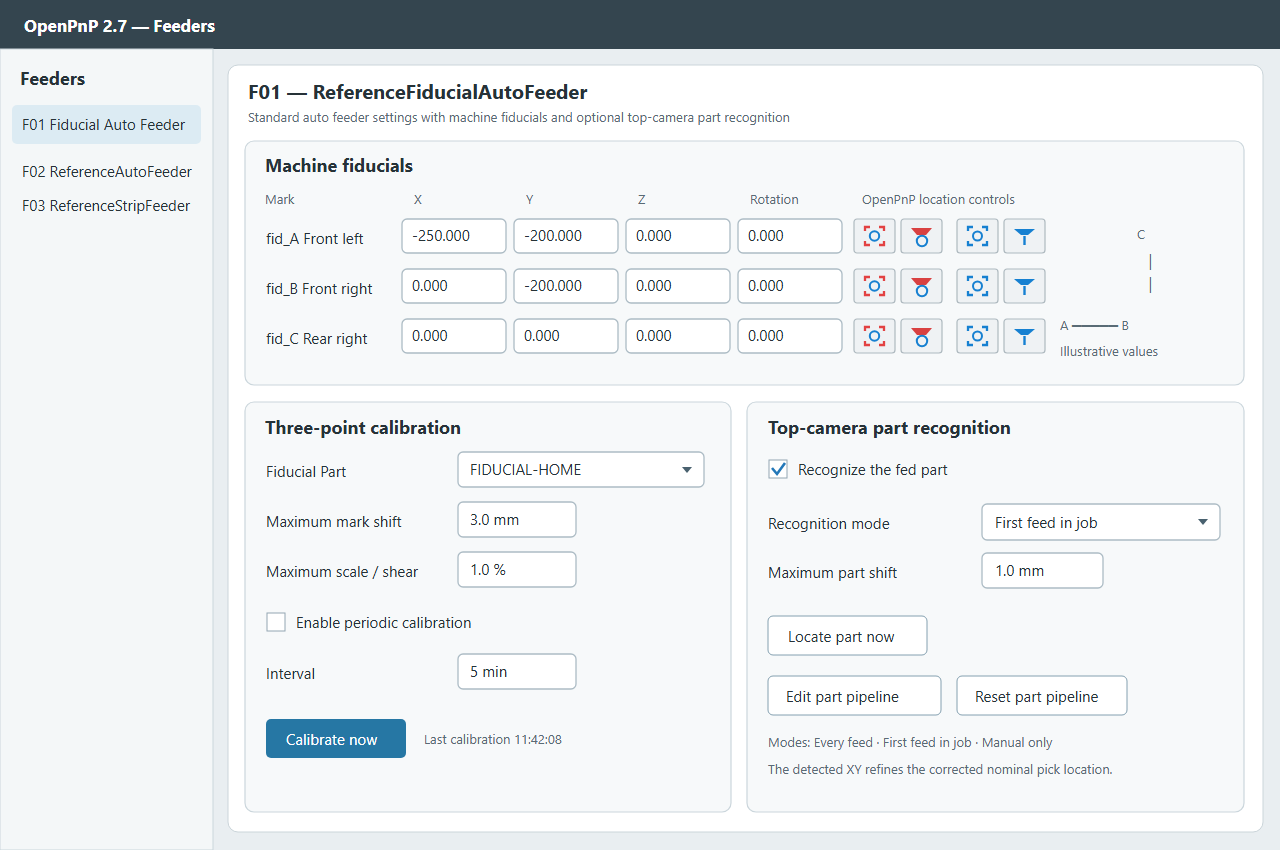
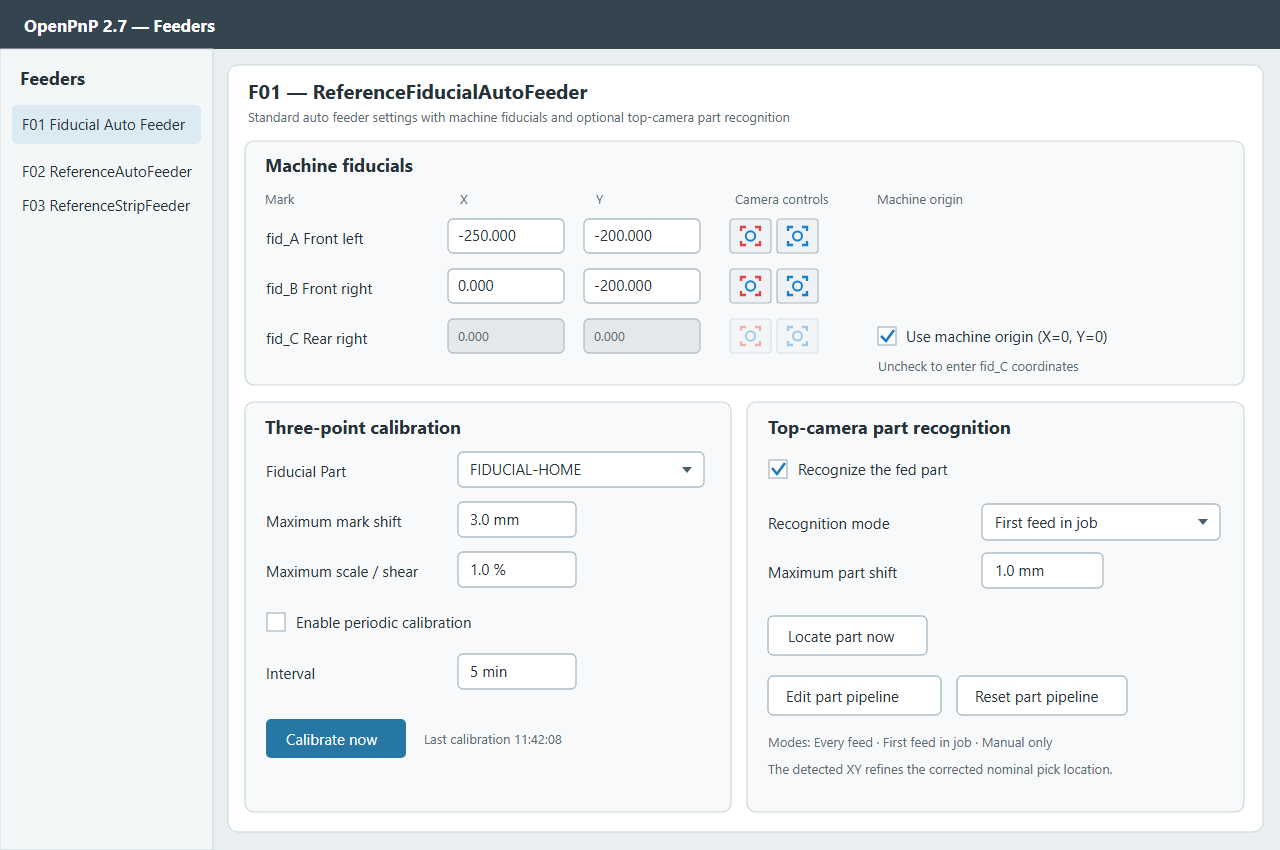
Use XY-only fiducials with optional machine origin for fid_C

Changed region(s): [[0.3125, 0.2141, 0.9062, 0.4588]]

diff --git a/overlay/src/main/java/org/openpnp/machine/reference/feeder/wizards/ReferenceFiducialAutoFeederConfigurationWizard.java b/overlay/src/main/java/org/openpnp/machine/reference/feeder/wizards/ReferenceFiducialAutoFeederConfigurationWizard.java
@@ -5,6 +5,7 @@
 package org.openpnp.machine.reference.feeder.wizards;
 
 import java.awt.Component;
+import java.awt.CardLayout;
 import java.awt.GridBagConstraints;
 import java.awt.GridBagLayout;
 import java.awt.GridLayout;
@@ -35,7 +36,10 @@ import org.openpnp.gui.support.PartsComboBoxModel;
 import org.openpnp.machine.reference.feeder.ReferenceFiducialAutoFeeder;
 import org.openpnp.machine.reference.feeder.ReferenceFiducialAutoFeeder.PartVisionMode;
 import org.openpnp.model.Configuration;
+import org.openpnp.model.Length;
+import org.openpnp.model.Location;
 import org.openpnp.model.Part;
+import org.openpnp.spi.Camera;
 import org.openpnp.util.UiUtils;
 import org.openpnp.vision.pipeline.ui.CvPipelineEditor;
 import org.openpnp.vision.pipeline.ui.CvPipelineEditorDialog;
@@ -46,8 +50,10 @@ public class ReferenceFiducialAutoFeederConfigurationWizard
     private final ReferenceFiducialAutoFeeder feeder;
     private final JTextField[] fidX = {new JTextField(8), new JTextField(8), new JTextField(8)};
     private final JTextField[] fidY = {new JTextField(8), new JTextField(8), new JTextField(8)};
-    private final JTextField[] fidZ = {new JTextField(8), new JTextField(8), new JTextField(8)};
-    private final JTextField[] fidRotation = {new JTextField(8), new JTextField(8), new JTextField(8)};
+    private final JPanel fidCXCards = new JPanel(new CardLayout());
+    private final JPanel fidCYCards = new JPanel(new CardLayout());
+    private final FiducialXYControls[] fidControls = new FiducialXYControls[3];
+    private final JCheckBox useMachineOrigin = new JCheckBox("Use machine origin (X=0, Y=0)");
     private final JComboBox<Part> fidPart = new JComboBox<>();
     private PartsComboBoxModel partsModel;
     private final JTextField maxFidShift = new JTextField(6);
@@ -69,19 +75,24 @@ public class ReferenceFiducialAutoFeederConfigurationWizard
         addMarkCell(marks, new JLabel("Mark / position"), 0, 0);
         addMarkCell(marks, new JLabel("X"), 1, 0);
         addMarkCell(marks, new JLabel("Y"), 2, 0);
-        addMarkCell(marks, new JLabel("Z"), 3, 0);
-        addMarkCell(marks, new JLabel("Rotation"), 4, 0);
-        addMarkCell(marks, new JLabel("Position controls"), 5, 0);
-        String[] names = {"fid_A / front left", "fid_B / front right", "fid_C / rear right (origin)"};
+        addMarkCell(marks, new JLabel("Position controls"), 3, 0);
+        addMarkCell(marks, new JLabel("Machine origin"), 4, 0);
+        String[] names = {"fid_A / front left", "fid_B / front right", "fid_C / rear right"};
+        fidCXCards.add(fidX[2], "custom");
+        fidCXCards.add(disabledOriginField(), "origin");
+        fidCYCards.add(fidY[2], "custom");
+        fidCYCards.add(disabledOriginField(), "origin");
         for (int i = 0; i < 3; i++) {
             addMarkCell(marks, new JLabel(names[i]), 0, i + 1);
-            addMarkCell(marks, fidX[i], 1, i + 1);
-            addMarkCell(marks, fidY[i], 2, i + 1);
-            addMarkCell(marks, fidZ[i], 3, i + 1);
-            addMarkCell(marks, fidRotation[i], 4, i + 1);
-            addMarkCell(marks,
-                    new LocationButtonsPanel(fidX[i], fidY[i], fidZ[i], fidRotation[i]), 5, i + 1);
+            addMarkCell(marks, i == 2 ? fidCXCards : fidX[i], 1, i + 1);
+            addMarkCell(marks, i == 2 ? fidCYCards : fidY[i], 2, i + 1);
+            fidControls[i] = new FiducialXYControls(fidX[i], fidY[i]);
+            addMarkCell(marks, fidControls[i], 3, i + 1);
         }
+        addMarkCell(marks, useMachineOrigin, 4, 3);
+        useMachineOrigin.setSelected(feeder.isFidCUseMachineOrigin());
+        useMachineOrigin.addItemListener(e -> updateFidCControls());
+        updateFidCControls();
 
         JPanel calibration = new JPanel(new GridLayout(0, 2, 8, 5));
         calibration.setBorder(new TitledBorder("Three-point calibration"));
@@ -144,9 +155,41 @@ public class ReferenceFiducialAutoFeederConfigurationWizard
         constraints.gridy = row;
         constraints.insets = new Insets(3, 4, 3, 4);
         constraints.anchor = GridBagConstraints.WEST;
-        constraints.fill = column == 5 ? GridBagConstraints.NONE : GridBagConstraints.HORIZONTAL;
-        constraints.weightx = column == 0 ? 1.4 : column == 5 ? 0 : 1;
+        constraints.fill = column >= 3 ? GridBagConstraints.NONE : GridBagConstraints.HORIZONTAL;
+        constraints.weightx = column == 0 ? 1.4 : column >= 3 ? 0 : 1;
         panel.add(component, constraints);
+    }
+
+    private static JTextField disabledOriginField() {
+        JTextField field = new JTextField("0.000", 8);
+        field.setEnabled(false);
+        return field;
+    }
+
+    private void updateFidCControls() {
+        String card = useMachineOrigin.isSelected() ? "origin" : "custom";
+        ((CardLayout) fidCXCards.getLayout()).show(fidCXCards, card);
+        ((CardLayout) fidCYCards.getLayout()).show(fidCYCards, card);
+        fidControls[2].setEnabled(!useMachineOrigin.isSelected());
+    }
+
+    /** Standard OpenPnP camera location buttons, with XY at the top camera's focus height. */
+    private static final class FiducialXYControls extends LocationButtonsPanel {
+        FiducialXYControls(JTextField x, JTextField y) {
+            super(x, y, null, null);
+            setShowToolButtons(false);
+        }
+
+        @Override
+        public Camera getCamera() throws Exception {
+            Camera camera = Configuration.get().getMachine().getDefaultHead().getDefaultCamera();
+            Length defaultZ = camera.getDefaultZ();
+            if (defaultZ == null) {
+                throw new Exception("Set the top camera Default Z before moving to a fiducial.");
+            }
+            setBaseLocation(new Location(defaultZ.getUnits(), 0, 0, defaultZ.getValue(), 0));
+            return camera;
+        }
     }
 
     private void updateStatus() {
@@ -175,13 +218,10 @@ public class ReferenceFiducialAutoFeederConfigurationWizard
             bind(UpdateStrategy.READ_WRITE, feeder, properties[i], proxies[i], "location");
             addWrappedBinding(proxies[i], "lengthX", fidX[i], "text", length);
             addWrappedBinding(proxies[i], "lengthY", fidY[i], "text", length);
-            addWrappedBinding(proxies[i], "lengthZ", fidZ[i], "text", length);
-            addWrappedBinding(proxies[i], "rotation", fidRotation[i], "text", decimal);
             ComponentDecorators.decorateWithAutoSelectAndLengthConversion(fidX[i]);
             ComponentDecorators.decorateWithAutoSelectAndLengthConversion(fidY[i]);
-            ComponentDecorators.decorateWithAutoSelectAndLengthConversion(fidZ[i]);
-            ComponentDecorators.decorateWithAutoSelect(fidRotation[i]);
         }
+        addWrappedBinding(feeder, "fidCUseMachineOrigin", useMachineOrigin, "selected");
         addWrappedBinding(feeder, "fiducialPart", fidPart, "selectedItem");
         addWrappedBinding(feeder, "maxFiducialShiftMm", maxFidShift, "text", decimal);
         addWrappedBinding(feeder, "maxBasisChangePercent", maxBasisChange, "text", decimal);

diff --git a/tests/BinaryOverlaySmokeTest.java b/tests/BinaryOverlaySmokeTest.java
@@ -18,6 +18,10 @@ public class BinaryOverlaySmokeTest {
         org.openpnp.model.Configuration.get().setMachine(referenceMachine);
         org.openpnp.machine.reference.feeder.ReferenceFiducialAutoFeeder instance =
                 new org.openpnp.machine.reference.feeder.ReferenceFiducialAutoFeeder();
+        instance.setFidCLocation(new org.openpnp.model.Location(
+                org.openpnp.model.LengthUnit.Millimeters, 12, 34, 7, 15));
+        instance.setFidCUseMachineOrigin(true);
+        assertXY(instance.getEffectiveFidCLocation(), 0, 0);
         java.awt.Component wizard = (java.awt.Component) instance.getConfigurationWizard();
         ((org.openpnp.gui.support.AbstractConfigurationWizard) wizard).createBindings();
         // One belongs to the base feeder pick location; three are added for the fiducials.
@@ -27,7 +31,61 @@ public class BinaryOverlaySmokeTest {
         if (countPartsCombos(wizard) < 2 || countModeCombos(wizard) != 1) {
             throw new AssertionError("The fiducial Part and recognition mode dropdowns are missing.");
         }
+        javax.swing.JCheckBox origin = findOriginCheckBox(wizard);
+        if (origin == null || !origin.isSelected()
+                || countDisabledLocationControls(wizard) != 1
+                || countVisibleOriginFields(wizard) != 2) {
+            throw new AssertionError("The machine-origin option did not disable fid_C X/Y and controls.");
+        }
+        origin.setSelected(false);
+        if (countDisabledLocationControls(wizard) != 0 || countVisibleOriginFields(wizard) != 0) {
+            throw new AssertionError("Custom fid_C controls did not become enabled.");
+        }
+        instance.setFidCUseMachineOrigin(false);
+        assertXY(instance.getEffectiveFidCLocation(), 12, 34);
         System.out.println("BinaryOverlaySmokeTest passed");
+    }
+
+    private static void assertXY(org.openpnp.model.Location location, double x, double y) {
+        if (location.getX() != x || location.getY() != y) {
+            throw new AssertionError("Unexpected effective fid_C coordinates: " + location);
+        }
+    }
+
+    private static javax.swing.JCheckBox findOriginCheckBox(java.awt.Component root) {
+        if (root instanceof javax.swing.JCheckBox
+                && ((javax.swing.JCheckBox) root).getText().startsWith("Use machine origin")) {
+            return (javax.swing.JCheckBox) root;
+        }
+        if (root instanceof java.awt.Container) {
+            for (java.awt.Component child : ((java.awt.Container) root).getComponents()) {
+                javax.swing.JCheckBox found = findOriginCheckBox(child);
+                if (found != null) return found;
+            }
+        }
+        return null;
+    }
+
+    private static int countDisabledLocationControls(java.awt.Component root) {
+        int total = root instanceof org.openpnp.gui.components.LocationButtonsPanel
+                && !root.isEnabled() ? 1 : 0;
+        if (root instanceof java.awt.Container) {
+            for (java.awt.Component child : ((java.awt.Container) root).getComponents()) {
+                total += countDisabledLocationControls(child);
+            }
+        }
+        return total;
+    }
+
+    private static int countVisibleOriginFields(java.awt.Component root) {
+        int total = root instanceof javax.swing.JTextField && root.isVisible() && !root.isEnabled()
+                && "0.000".equals(((javax.swing.JTextField) root).getText()) ? 1 : 0;
+        if (root instanceof java.awt.Container) {
+            for (java.awt.Component child : ((java.awt.Container) root).getComponents()) {
+                total += countVisibleOriginFields(child);
+            }
+        }
+        return total;
     }
 
     private static int count(java.awt.Component root, Class<?> type) {

diff --git a/overlay/src/main/java/org/openpnp/machine/reference/feeder/ReferenceFiducialAutoFeeder.java b/overlay/src/main/java/org/openpnp/machine/reference/feeder/ReferenceFiducialAutoFeeder.java
@@ -19,7 +19,6 @@ import org.openpnp.model.Configuration;
 import org.openpnp.model.LengthUnit;
 import org.openpnp.model.Location;
 import org.openpnp.model.Part;
-import org.openpnp.machine.reference.vision.ReferenceFiducialLocator;
 import org.openpnp.spi.Camera;
 import org.openpnp.spi.Machine;
 import org.openpnp.spi.MachineListener;
@@ -56,6 +55,8 @@ public class ReferenceFiducialAutoFeeder extends ReferenceAutoFeeder {
     private Location fidBLocation = new Location(LengthUnit.Millimeters);
     @Element(required = false)
     private Location fidCLocation = new Location(LengthUnit.Millimeters);
+    @Attribute(required = false)
+    private boolean fidCUseMachineOrigin;
     @Attribute(required = false)
     private String fiducialPartId = "";
     @Attribute(required = false)
@@ -154,11 +155,7 @@ public class ReferenceFiducialAutoFeeder extends ReferenceAutoFeeder {
         if (part == null) {
             throw new Exception("Fiducial Part ID not found: " + fiducialPartId);
         }
-        if (!(machine.getFiducialLocator() instanceof ReferenceFiducialLocator)) {
-            throw new Exception("ReferenceFiducialLocator is required for fiducial Z and rotation.");
-        }
-        ReferenceFiducialLocator locator = (ReferenceFiducialLocator) machine.getFiducialLocator();
-        Location[] nominal = {fidALocation, fidBLocation, fidCLocation};
+        Location[] nominal = {fidALocation, fidBLocation, getEffectiveFidCLocation()};
         String[] names = {"fid_A", "fid_B", "fid_C"};
         double[][] expected = new double[3][2];
         double[][] observed = new double[3][2];
@@ -179,7 +176,10 @@ public class ReferenceFiducialAutoFeeder extends ReferenceAutoFeeder {
             // Validate geometry before moving the camera.
             new ThreePointAffine(expected, expected);
             for (int i = 0; i < 3; i++) {
-                Location found = locator.getFiducialLocation(nominal[i], part);
+                // Fiducials are XY points. The locator supplies the camera's default focus Z.
+                Location search = new Location(LengthUnit.Millimeters,
+                        expected[i][0], expected[i][1], 0, 0);
+                Location found = machine.getFiducialLocator().getHomeFiducialLocation(search, part);
                 if (found == null) {
                     throw new Exception(names[i] + " was not detected.");
                 }
@@ -317,6 +317,17 @@ public class ReferenceFiducialAutoFeeder extends ReferenceAutoFeeder {
     public void setFidBLocation(Location value) { fidBLocation = value; invalidateCalibration(); firePropertyChange("fidBLocation", null, value); }
     public Location getFidCLocation() { return fidCLocation; }
     public void setFidCLocation(Location value) { fidCLocation = value; invalidateCalibration(); firePropertyChange("fidCLocation", null, value); }
+    /** The machine coordinate origin is X=0, Y=0; the configured custom location is preserved. */
+    public Location getEffectiveFidCLocation() {
+        return fidCUseMachineOrigin ? new Location(LengthUnit.Millimeters) : fidCLocation;
+    }
+    public boolean isFidCUseMachineOrigin() { return fidCUseMachineOrigin; }
+    public void setFidCUseMachineOrigin(boolean value) {
+        boolean old = fidCUseMachineOrigin;
+        fidCUseMachineOrigin = value;
+        invalidateCalibration();
+        firePropertyChange("fidCUseMachineOrigin", old, value);
+    }
     public String getFiducialPartId() { return fiducialPartId; }
     public void setFiducialPartId(String value) { fiducialPartId = value; invalidateCalibration(); }
     public Part getFiducialPart() {

diff --git a/docs/installation-guide-ja.md b/docs/installation-guide-ja.md
@@ -27,10 +27,11 @@ powershell.exe -ExecutionPolicy Bypass -File .\Start-CustomOpenPnP.ps1 -InstallD
 
 1. `Feeders` で `New` を押し、`ReferenceFiducialAutoFeeder` を追加します。既存の `ReferenceAutoFeeder` はそのまま残せます。
 2. 通常の自動フィーダーと同様に、Part、フィード用アクチュエータ、必要に応じた Post Pick アクチュエータ、ピック位置 X/Y/Z/回転を設定します。このピック位置は補正前の公称値です。
-3. `fid_A` 左手前、`fid_B` 右手前、`fid_C` 右奥の公称位置を、OpenPnP 標準の X/Y/Z/Rotation 欄と位置操作ボタンで入力します。カメラを各マークの中心・撮像高さに動かして座標取得ボタンを使えます。X/Y は同じマシン座標系とし、3点が一直線にならないようにします。Z と Rotation はフィデューシャルの撮像・認識に使い、ピック位置の Z は変換しません。GUI イメージの数値は例です。
-4. `Fiducial Part` のドロップダウンから手順3で作成した Part を選びます。マークの最大移動量と倍率・せん断の上限を実機に合わせます。初期値はそれぞれ 3 mm、1% です。
-5. 原点復帰後、`Calibrate now` で手動校正します。ログと最終校正表示を確認します。原点復帰後は自動校正も予約されます。ジョブ開始時には、ジョブで使うフィーダーが再校正されます。
-6. 温度ドリフトを補正する場合、`Enable periodic calibration` を有効にし、間隔を分単位で設定します。初期値は5分です。待機中のタイマー、または次の給材前に期限切れを検出して校正します。カメラ移動が必要なため、作業時間が増えます。
+3. `fid_A` 左手前、`fid_B` 右手前、`fid_C` 右奥の公称 X/Y を入力します。OpenPnP 標準のカメラ移動・座標取得ボタンを使えます。移動時の高さと認識時の高さには上側カメラの Default Z が使われるので、先に設定してください。X/Y は同じマシン座標系とし、3点が一直線にならないようにします。フィデューシャルの Z と Rotation は入力しません。GUI イメージの数値は例です。
+4. `fid_C` がマシン座標の X=0、Y=0 にある場合は `Use machine origin (X=0, Y=0)` をチェックします。`fid_C` の X/Y 欄と位置操作ボタンが無効になり、校正には原点座標が使われます。マークが原点以外ならチェックを外し、標準の位置操作ボタンで実際の X/Y を指定してください。チェック中も手動入力した X/Y は保存され、再び外すと使えます。
+5. `Fiducial Part` のドロップダウンから手順3で作成した Part を選びます。マークの最大移動量と倍率・せん断の上限を実機に合わせます。初期値はそれぞれ 3 mm、1% です。
+6. 原点復帰後、`Calibrate now` で手動校正します。ログと最終校正表示を確認します。原点復帰後は自動校正も予約されます。ジョブ開始時には、ジョブで使うフィーダーが再校正されます。
+7. 温度ドリフトを補正する場合、`Enable periodic calibration` を有効にし、間隔を分単位で設定します。初期値は5分です。待機中のタイマー、または次の給材前に期限切れを検出して校正します。カメラ移動が必要なため、作業時間が増えます。
 
 ## 5. 上側カメラによる部品位置補正
 
@@ -62,6 +63,6 @@ mvn -DskipTests package
 
 ## 補正の範囲と失敗時の挙動
 
-3点の公称座標と実測座標から XY アフィン変換を求めます。これにより平行移動、回転、X/Y の倍率差、せん断を補正します。フィデューシャルの Z/Rotation は撮像に用いますが、ピック位置の Z は変換しません。各マークのずれ、倍率・せん断の上限、部品検出位置のずれを検査します。マーク検出失敗や上限超過では、古い補正を使い続けず校正を無効にしてフィーダーを停止します。
+3点の公称座標と実測座標から XY アフィン変換を求めます。これにより平行移動、回転、X/Y の倍率差、せん断を補正します。フィデューシャル認識には上側カメラの Default Z を使用し、ピック位置の Z は変換しません。各マークのずれ、倍率・せん断の上限、部品検出位置のずれを検査します。マーク検出失敗や上限超過では、古い補正を使い続けず校正を無効にしてフィーダーを停止します。
 
 この実装は設定と校正結果をフィーダーごとに持ちます。複数フィーダーで同じマークを使う場合は同じ位置・Fiducial Part を個別に選択します。3点校正のためにカメラが各フィーダーについて移動します。

diff --git a/README.md b/README.md
@@ -1,10 +1,10 @@
 # Three-fiducial auto feeder for OpenPnP
 
-`ReferenceFiducialAutoFeeder` extends OpenPnP's `ReferenceAutoFeeder`. It measures three fixed machine fiducials with the top camera: `fid_A` at the front left, `fid_B` at the front right, and `fid_C` at the rear right machine origin. An affine transform derived from those measurements corrects the feeder's nominal XY pick position. Optional part recognition uses the same camera to refine the XY position of a presented part.
+`ReferenceFiducialAutoFeeder` extends OpenPnP's `ReferenceAutoFeeder`. It measures three fixed machine fiducials with the top camera: `fid_A` at the front left, `fid_B` at the front right, and `fid_C` at the rear right, optionally assigned to the machine origin. An affine transform derived from those measurements corrects the feeder's nominal XY pick position. Optional part recognition uses the same camera to refine the XY position of a presented part.
 
 ![Configuration UI preview](gui-preview.png)
 
-The preview illustrates the custom feeder panel. Its fiducial fields use OpenPnP's standard X/Y/Z/Rotation location controls and capture/move buttons. The values shown are examples, not machine settings. All labels added by this feeder are in English.
+The preview illustrates the custom feeder panel. Its fiducial fields contain only X/Y and use OpenPnP's standard camera move/capture location buttons. Checking **Use machine origin (X=0, Y=0)** fixes `fid_C` at the machine coordinate origin and disables its fields and buttons. Uncheck it to capture or enter a custom `fid_C` position. The values shown are examples, not machine settings. All labels added by this feeder are in English.
 
 ## Files
 
@@ -32,7 +32,7 @@ Part vision is initially disabled. The supplied pipeline is OpenPnP's `Reference
 
 ## Calibration behavior
 
-Each fiducial has a nominal X/Y/Z/Rotation location entered with OpenPnP's location controls. The configured fiducial Part is selected from a dropdown backed by OpenPnP's Parts list. Detection uses `ReferenceFiducialLocator`, so the fiducial's Z and rotation are used for camera positioning and vision setup. Only XY is transformed for the pick location.
+Each fiducial has a nominal X/Y position entered with OpenPnP's location controls. The configured fiducial Part is selected from a dropdown backed by OpenPnP's Parts list. The fiducial locator uses the top camera's Default Z for detection; fiducial Z and rotation are neither entered nor used. Checking **Use machine origin** sets the effective `fid_C` position to X=0, Y=0. A custom `fid_C` position is retained when the checkbox is toggled and used when unchecked. The origin option refers to OpenPnP's machine coordinate origin, so leave it unchecked when the physical mark is elsewhere. Only XY is transformed for the pick location.
 
 Calibration is queued after homing and performed again for each feeder used at job start. If periodic calibration is enabled, it runs when its interval has elapsed and the machine is idle, or before the next feed. A failed or out-of-limit measurement invalidates the previous transform and prevents that feeder from preparing or feeding until calibration succeeds. Multiple feeders are calibrated independently.
 
